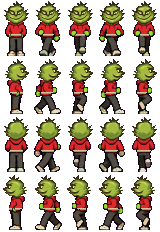
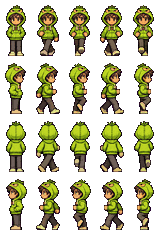
Christmas guests v2: the green monster hoodie replaces the first green guest; seasonal from 1 November to 31 January
Claude-Session: https://claude.ai/code/session_01X3CjJZzVxAKJaFpSnp6b3n

diff --git a/index.html b/index.html
@@ -1871,11 +1871,11 @@ const GUEST_P=.025,GUEST_WIZARD=21,GUEST_GOTH=22;
 const VIPS=[{id:'vipspeed',look:23,stars:3,every:2,off:0,from:.25},
   {id:'captain',look:24,stars:4,every:3,off:0,from:.3},{id:'redsuit',look:25,stars:4,every:3,off:1,from:.4},{id:'goldline',look:26,stars:4,every:3,off:2,from:.5},
   {id:'bow',look:27,stars:5,every:3,off:1,from:.6},{id:'moustache',look:28,stars:5,every:3,off:2,from:.7}];
-/* Christmas guests (customers/30-34, since 0.05a), from 25 November to 6 January only (the player's own date, XMAS_ON):
-   Santa visits our pizzeria once a day after XMAS_SANTA of the day, like a VIP; the two elves and the reindeer come
-   in XMAS_P of the people each, the grumpy green guest in half of that. Looks only, sales don't change. */
-const XMAS_SANTA_LOOK=29,XMAS_LOOKS=[30,31,32],XMAS_GREEN=33,XMAS_P=.03,XMAS_SANTA=.35;
-const XMAS_ON=()=>{const d=new Date(),m=d.getMonth()+1,dd=d.getDate();return (m===11&&dd>=25)||m===12||(m===1&&dd<=6)};
+/* Christmas guests (customers/30-34, since 0.05a), seasonal: from 1 November to 31 January only (the player's own
+   date, XMAS_ON): Santa visits our pizzeria once a day after XMAS_SANTA of the day, like a VIP; the two elves and the
+   reindeer guest come in XMAS_P of the people each, the green monster hoodie in half of that. Looks only, sales don't change. */
+const XMAS_SANTA_LOOK=29,XMAS_LOOKS=[30,31,32],XMAS_HOODIE=33,XMAS_P=.03,XMAS_SANTA=.35;
+const XMAS_ON=()=>{const m=new Date().getMonth()+1;return m===11||m===12||m===1};
 function guestLook(e){
   if(!castOn())return Math.floor(Math.random()*21);
   if(e.target==='ours'){const seen=anim.vips||(anim.vips={});
@@ -1883,7 +1883,7 @@ function guestLook(e){
   if(XMAS_ON()){const seen=anim.vips||(anim.vips={});
     if(e.target==='ours'&&!seen.santa&&anim.t>=DAY_SECONDS*XMAS_SANTA){seen.santa=1;return XMAS_SANTA_LOOK}
     const x=Math.random();for(let i=0;i<XMAS_LOOKS.length;i++)if(x<XMAS_P*(i+1))return XMAS_LOOKS[i];
-    if(x<XMAS_P*(XMAS_LOOKS.length+.5))return XMAS_GREEN}
+    if(x<XMAS_P*(XMAS_LOOKS.length+.5))return XMAS_HOODIE}
   const r=Math.random();return r<GUEST_P?GUEST_WIZARD:r<2*GUEST_P?GUEST_GOTH:Math.floor(Math.random()*21)}
 function spawn(e){
   const left=e.target==='rival'?true:Math.random()<.5,y=STREET_ROW*T+(e.target==='ours'?0:Math.round(Math.random()*16));

diff --git a/CLAUDE.md b/CLAUDE.md
@@ -8,7 +8,7 @@ A pizzeria management game in 90s pixel art, for browser and phone. Plain HTML a
   - `= DATA =`: `DOUGHS`, `SAUCES`, `ING`, `PACKS`, `COMBOS`, `SEG` and `custU()` (what each customer group looks for: students a low price and home toppings `CASA`, families a good deal, gourmets quality, tourists a mix and unusual toppings `EXOTIC`; the price a customer finds fair, `fairPrice()`, comes mostly from appeal, and toppings add value only up to `VALUE_CAP` of cost, so a pizza piled with toppings and sold cheap doesn't take every customer), `THEMES` (contest themes by topping or flavour: classic, sweet, veggie, creative, cheese, spicy, sea, low-cost; names in `I18N` `th.*`) and the economy constants (the goal, `GOAL_MONEY`/`GOAL_REP` for a second shop, is off for now: `GOAL_ON=false` hides it from the header and the intro and skips its announcement, also on the 3DS); `weekly()`: the topping, least wanted topping and combo of the week; `STUDY_COST`, `studyTips()`: the weekly market study in the Shop (tips in `state.tips`)
   - `DEV` (pizzamagna.xyz/dev, `window.PM_DEV` from `dev/index.html`, or `#dev`): for features still being tried out, off on the public site and itch.io; same save for both. Nothing is behind it now (the cast-01 characters went public in 0.04k). The City, the Bank and the harder reputation went public in 0.03e.
   - The characters (`assets/cast/`, its `README.md` and `NOTES.md`; cast-01, public since 0.04k): all 21 customers, 9 waiters and 11 standing cooks from their own sheets, folder NN = look NN − 1 (`castCustomer()`, `castWaiter()`, `castCook()`), each once it has decoded (`castSheet()`), else the people of the room atlas; walkers, waiters and cooks drawn 1 px higher with the atlas's foot shadow (`drawPilotFoot()`), seated ones at the atlas layout's place and cut at row 36 from behind (`drawPilotSeated()`), per-frame head nudges `PILOT_DX`; a waiter carries the pizza in his own frames and faces the customer for `PILOT_HANDOFF` (0.3 s) at the table. Options › Characters picks New or Classic (the atlas people, as before 0.04k; `CAST_PREF`, `pm-cast` in `localStorage`); `CAST_ON=false` turns the new ones off for everyone; main before the change is commit 40807a3. Earlier pilots stay in `dev/pilots/` (trio-01, waiter-01, cooks-01-05), not drawn.
-  - Guests (`guestLook()`, since 0.04l; cast sheets only, so never with the classic characters; looks only, sales don't change): the wizard (`customers/22`) and the goth (`customers/23`) come in `GUEST_P` (2.5%) of the people each. The VIPs (`VIPS`, nicknames only, never real names) visit our pizzeria from their stars on, once a day every `every` days (shifted by `off`), after `from` of the day: vipspeed (`customers/24`, 3★, every 2 days); captain, redsuit, goldline (`customers/25`–`27`, 4★) and bow, moustache (`customers/28`–`29`, 5★), every 3 days each. Christmas guests (since 0.05a; `customers/30`–`34`), only from 25 November to 6 January (`XMAS_ON()`, the player's date): Santa once a day after `XMAS_SANTA` of the day, two elves and a reindeer guest (`XMAS_P`, 3% each) and a grumpy green guest (half that); not on the 3DS yet.
+  - Guests (`guestLook()`, since 0.04l; cast sheets only, so never with the classic characters; looks only, sales don't change): the wizard (`customers/22`) and the goth (`customers/23`) come in `GUEST_P` (2.5%) of the people each. The VIPs (`VIPS`, nicknames only, never real names) visit our pizzeria from their stars on, once a day every `every` days (shifted by `off`), after `from` of the day: vipspeed (`customers/24`, 3★, every 2 days); captain, redsuit, goldline (`customers/25`–`27`, 4★) and bow, moustache (`customers/28`–`29`, 5★), every 3 days each. Christmas guests (since 0.05a; `customers/30`–`34`), seasonal, only from 1 November to 31 January (`XMAS_ON()`, the player's date): Santa once a day after `XMAS_SANTA` of the day, two elves and a reindeer guest (`XMAS_P`, 3% each) and a green monster hoodie (half that); not on the 3DS yet.
   - Reputation: a customer is happy at `happyAt()` = `HAPPY_BASE` + `HAPPY_STAR` × stars (60 at 1★, 80 at 5★) and a good day's gain shrinks near the top (`repGain()`, `REP_TOP`): a very good menu reaches 5★ in about two months (it took 3–4 weeks); ported to the 3DS (`day.lua`, `HARD_REP=true`).
   - `= PIZZA ANALYSIS =`: `analyze()` (quality, cost, appeal: per customer group, `Q_W` of the quality plus `FIT_W` times how well the pizza fits that group, so a pizza made for a group wins it against a better pizza made for another) and `contestScore()`
   - `= DRAWING`: atlas, `spr()`, rotating pieces (`turned()`), `composePizza()` (pieces are drawn in the order they were placed)

diff --git a/assets/cast/README.md b/assets/cast/README.md
@@ -24,4 +24,4 @@ Extra customer looks in the same format (walk.png and seated.png), handed out by
 
 ## Christmas guests (in the game since 0.05a)
 
-Five more looks in the same format, from the Christmas pack (its folders were named by role): 30 Santa (`santa`), 31 the holly elf (`holly-elf`), 32 the pine elf (`pine-elf`), 33 the reindeer guest (`reindeer-guest`), 34 the grumpy green guest (`grinch`). They come only from 25 November to 6 January (`XMAS_ON()` in index.html, by the player's own date): Santa visits our pizzeria once a day after `XMAS_SANTA` (35%) of the day; the elves and the reindeer are `XMAS_P` (3%) of the people each, the green guest half of that.
+Five more looks in the same format, from the Christmas pack v2 (its folders were named by role): 30 Santa (`santa`), 31 the holly elf (`holly-elf`), 32 the pine elf (`pine-elf`), 33 the reindeer guest (`reindeer-guest`), 34 the green monster hoodie (`monster-hoodie`, "Capuz Traquina"; it replaced a first green guest). Seasonal: they come only from 1 November to 31 January (`XMAS_ON()` in index.html, by the player's own date): Santa visits our pizzeria once a day after `XMAS_SANTA` (35%) of the day; the elves and the reindeer guest are `XMAS_P` (3%) of the people each, the hoodie half of that.
